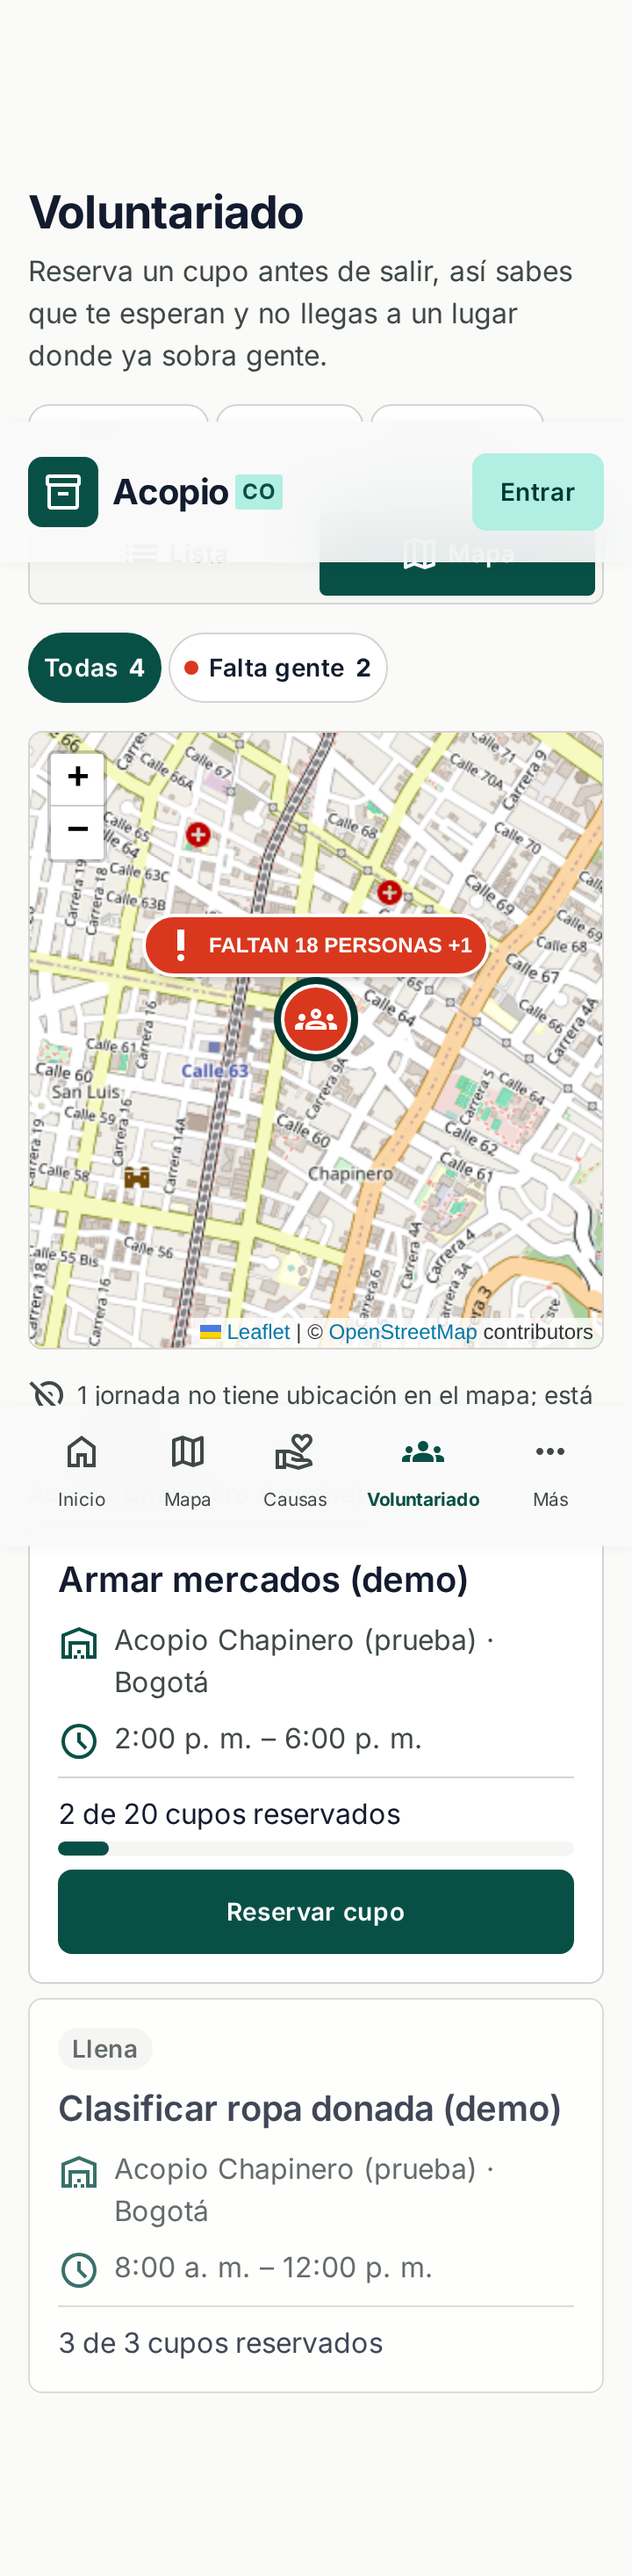
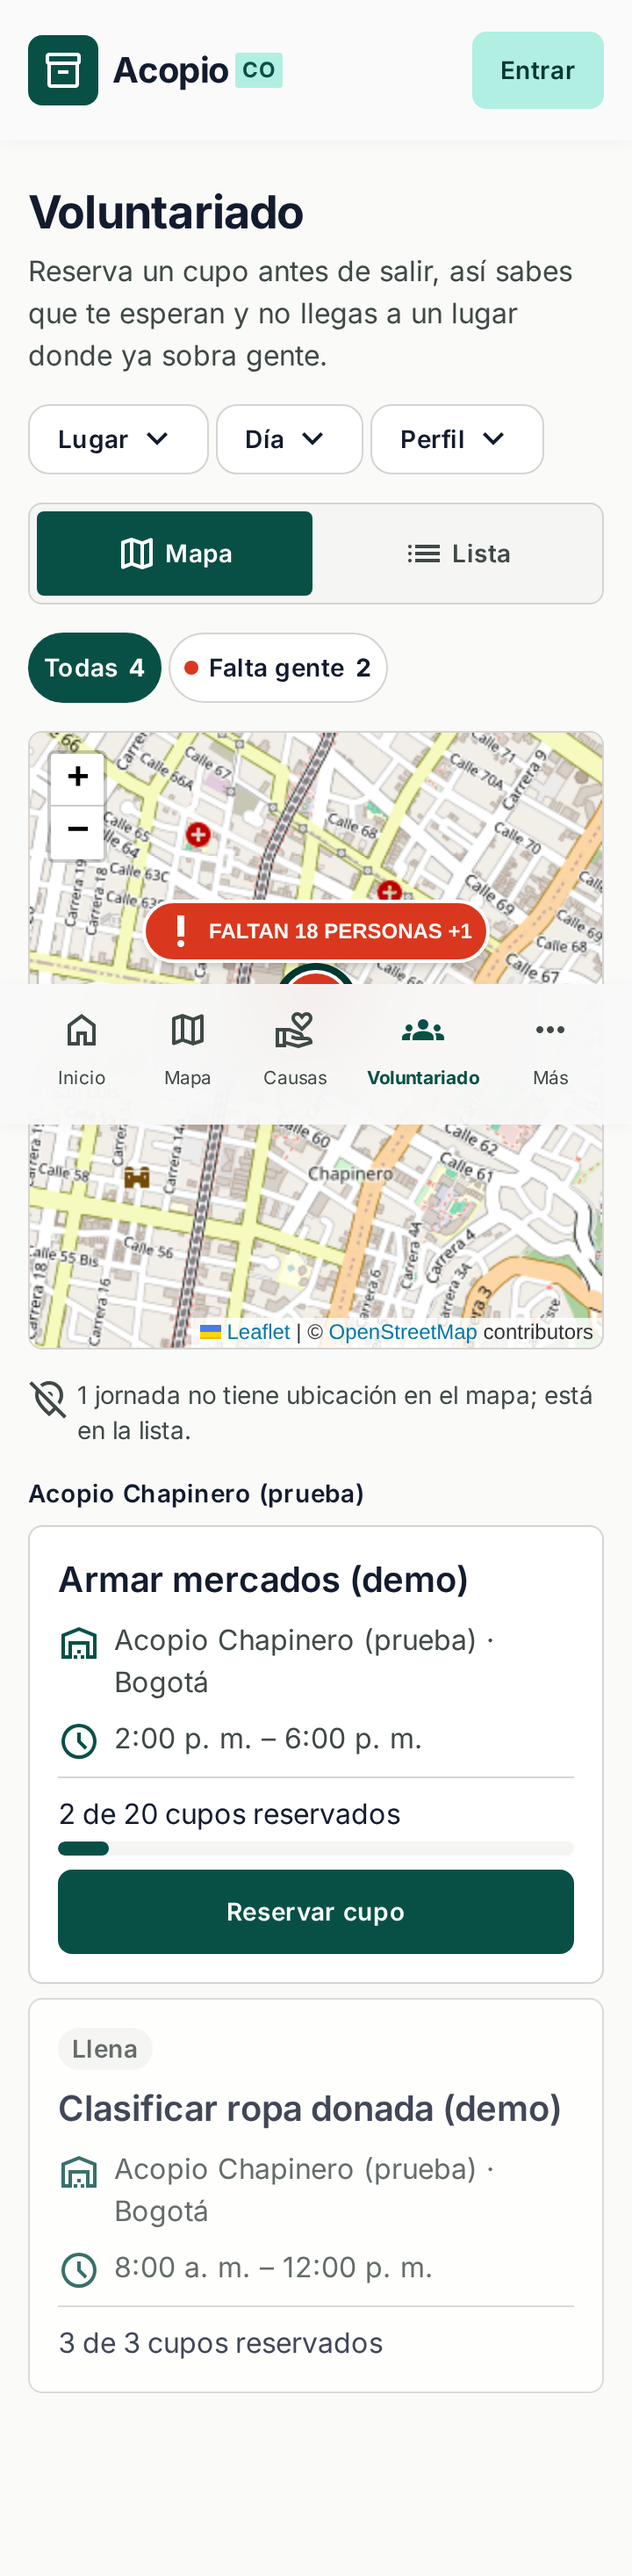
Voluntariado: abre en el mapa como P5, con la lista en ?vista=lista
El ancho de cada punto sale de su etiqueta (anchoPunto). El recorrido, la nota de P7 y
la especificación del mapa de necesidades se alinean, con la decisión de Joseph.

Claude-Session: https://claude.ai/code/session_01YFcedtGcTXRBBGCybdUmT9

diff --git a/apps/web/src/portal/turnos/Jornadas.test.tsx b/apps/web/src/portal/turnos/Jornadas.test.tsx
@@ -51,7 +51,7 @@ const TRES = [
 
 it('agrupa las jornadas por día y marca las llenas y las cerradas', async () => {
   responderSegun({ 'GET /api/turnos/jornadas': TRES });
-  const { container } = render(envolver(<Jornadas />, '/voluntariado'));
+  const { container } = render(envolver(<Jornadas />, '/voluntariado?vista=lista'));
   const dia21 = await screen.findByRole('region', { name: 'Miércoles 21 de octubre' });
   const dia22 = screen.getByRole('region', { name: 'Jueves 22 de octubre' });
   expect(within(dia21).getAllByRole('link')).toHaveLength(2);
@@ -77,13 +77,13 @@ it('muestra hace cuánto se ajustaron los cupos a mano', async () => {
   responderSegun({
     'GET /api/turnos/jornadas': [jornadaDe({ ajuste: 2, ajusteActualizadoEn: haceDosHoras })],
   });
-  render(envolver(<Jornadas />, '/voluntariado'));
+  render(envolver(<Jornadas />, '/voluntariado?vista=lista'));
   expect(await screen.findByText('Ajustado hace 2 h')).toBeInTheDocument();
 });
 
 it('el filtro de perfil pide las jornadas de ese perfil', async () => {
   responderSegun({ 'GET /api/turnos/jornadas': TRES });
-  render(envolver(<Jornadas />, '/voluntariado'));
+  render(envolver(<Jornadas />, '/voluntariado?vista=lista'));
   await screen.findByText('Armar mercados');
   await userEvent.click(screen.getByRole('button', { name: /Perfil/ }));
   await userEvent.click(
@@ -103,7 +103,7 @@ it('muestra la hora de Bogotá aunque el navegador esté en otra zona', async ()
   process.env.TZ = 'America/New_York';
   try {
     responderSegun({ 'GET /api/turnos/jornadas': [jornadaDe()] });
-    render(envolver(<Jornadas />, '/voluntariado'));
+    render(envolver(<Jornadas />, '/voluntariado?vista=lista'));
     expect(await screen.findByText('8:00 a. m. – 12:00 p. m.')).toBeInTheDocument();
   } finally {
     process.env.TZ = zona;
@@ -112,7 +112,7 @@ it('muestra la hora de Bogotá aunque el navegador esté en otra zona', async ()
 
 it('sin jornadas lo dice', async () => {
   responderSegun({ 'GET /api/turnos/jornadas': [] });
-  render(envolver(<Jornadas />, '/voluntariado'));
+  render(envolver(<Jornadas />, '/voluntariado?vista=lista'));
   expect(await screen.findByText('Por ahora no hay jornadas abiertas')).toBeInTheDocument();
 });
 
@@ -122,7 +122,7 @@ it('abierta con ?acopio= filtra por ese acopio', async () => {
   responderSegun({
     'GET /api/turnos/jornadas': [jornadaDe({ lugar: { ...jornadaDe().lugar, id: UUID } })],
   });
-  render(envolver(<Jornadas />, `/voluntariado?acopio=${UUID}`));
+  render(envolver(<Jornadas />, `/voluntariado?vista=lista&acopio=${UUID}`));
   await waitFor(() => expect(peticiones()).toContain(`GET /api/turnos/jornadas?acopio=${UUID}`));
   expect(await screen.findByRole('button', { name: /Acopio Chapinero/ })).toHaveAttribute(
     'aria-pressed',
@@ -141,13 +141,13 @@ it('con ajuste manual, los cupos dicen cuántos llegaron sin reserva', async () 
       }),
     ],
   });
-  render(envolver(<Jornadas />, '/voluntariado'));
+  render(envolver(<Jornadas />, '/voluntariado?vista=lista'));
   expect(await screen.findByText('3 de 10 cupos reservados · 2 sin reserva')).toBeInTheDocument();
 });
 
 it('ignora un día o un acopio mal escritos en la URL', async () => {
   responderSegun({ 'GET /api/turnos/jornadas': [jornadaDe()] });
-  render(envolver(<Jornadas />, '/voluntariado?dia=mañana&acopio=no-es-uuid'));
+  render(envolver(<Jornadas />, '/voluntariado?vista=lista&dia=mañana&acopio=no-es-uuid'));
   expect(await screen.findByText('Armar mercados')).toBeInTheDocument();
   expect(peticiones().filter((p) => p.startsWith('GET /api/turnos/jornadas'))).toEqual([
     'GET /api/turnos/jornadas',
@@ -160,7 +160,7 @@ it('ignora un día que no existe y un UUID sin versión, como la API (P-071)', a
   render(
     envolver(
       <Jornadas />,
-      '/voluntariado?dia=2026-02-30&acopio=11111111-1111-1111-1111-111111111111',
+      '/voluntariado?vista=lista&dia=2026-02-30&acopio=11111111-1111-1111-1111-111111111111',
     ),
   );
   expect(await screen.findByText('Armar mercados')).toBeInTheDocument();
@@ -174,7 +174,7 @@ it('un acopio en mayúsculas en la URL coincide con su opción (P-071)', async (
   responderSegun({
     'GET /api/turnos/jornadas': [jornadaDe({ lugar: { ...jornadaDe().lugar, id } })],
   });
-  render(envolver(<Jornadas />, `/voluntariado?acopio=${id.toUpperCase()}`));
+  render(envolver(<Jornadas />, `/voluntariado?vista=lista&acopio=${id.toUpperCase()}`));
   await waitFor(() => expect(peticiones()).toContain(`GET /api/turnos/jornadas?acopio=${id}`));
   expect(await screen.findByRole('button', { name: /Acopio Chapinero/ })).toHaveAttribute(
     'aria-pressed',
@@ -187,7 +187,7 @@ it('el filtro de lugar dice el nombre del acopio aunque no tenga jornadas', asyn
     'GET /api/turnos/jornadas': [],
     [`GET /api/acopios/${UUID}`]: acopioDePrueba({ nombre: 'Acopio Suba' }),
   });
-  render(envolver(<Jornadas />, `/voluntariado?acopio=${UUID}`));
+  render(envolver(<Jornadas />, `/voluntariado?vista=lista&acopio=${UUID}`));
   expect(await screen.findByRole('button', { name: /Acopio Suba/ })).toHaveAttribute(
     'aria-pressed',
     'true',
@@ -196,7 +196,7 @@ it('el filtro de lugar dice el nombre del acopio aunque no tenga jornadas', asyn
 
 it('los filtros avisan que abren un diálogo', async () => {
   responderSegun({ 'GET /api/turnos/jornadas': [jornadaDe()] });
-  render(envolver(<Jornadas />, '/voluntariado'));
+  render(envolver(<Jornadas />, '/voluntariado?vista=lista'));
   await screen.findByText('Armar mercados');
   for (const nombre of [/Lugar/, /Día/, /Perfil/]) {
     expect(screen.getByRole('button', { name: nombre })).toHaveAttribute('aria-haspopup', 'dialog');
@@ -209,7 +209,7 @@ it('con el ajuste en 0 no dice «Ajustado»', async () => {
       jornadaDe({ ajuste: 0, ajusteActualizadoEn: new Date().toISOString() }),
     ],
   });
-  render(envolver(<Jornadas />, '/voluntariado'));
+  render(envolver(<Jornadas />, '/voluntariado?vista=lista'));
   await screen.findByText('Armar mercados');
   expect(screen.queryByText(/Ajustado/)).not.toBeInTheDocument();
 });
@@ -227,7 +227,15 @@ const CON_CUPOS = jornadaDe({
   lugar: { ...jornadaDe().lugar, id: 'a2', nombre: 'Acopio Suba', lat: 4.74, lng: -74.08 },
 });
 
-it('la vista de mapa queda en la URL y los chips filtran', async () => {
+it('sin parámetro abre en «Mapa», como el mapa de acopios', async () => {
+  responderSegun({ 'GET /api/turnos/jornadas': TRES });
+  render(envolver(<Jornadas />, '/voluntariado'));
+  expect(await screen.findByText('mapa de jornadas')).toBeInTheDocument();
+  expect(screen.getByRole('radio', { name: 'Mapa' })).toBeChecked();
+  expect(screen.getByRole('radio', { name: 'Lista' })).not.toBeChecked();
+});
+
+it('la lista queda en la URL y los chips filtran en el mapa', async () => {
   responderSegun({ 'GET /api/turnos/jornadas': [...TRES, CON_CUPOS] });
   render(
     envolver(
@@ -235,7 +243,7 @@ it('la vista de mapa queda en la URL y los chips filtran', async () => {
         <Jornadas />
         <Ubicacion />
       </>,
-      '/voluntariado',
+      '/voluntariado?vista=lista',
     ),
   );
   await screen.findByText('Armar mercados');
@@ -244,7 +252,7 @@ it('la vista de mapa queda en la URL y los chips filtran', async () => {
   expect(screen.getByRole('button', { name: 'Con cupos 1' })).toBeInTheDocument();
 
   await userEvent.click(screen.getByRole('radio', { name: 'Mapa' }));
-  expect(screen.getByTestId('busqueda')).toHaveTextContent('vista=mapa');
+  expect(screen.getByTestId('busqueda')).not.toHaveTextContent('vista');
   // En el mapa entran la que falta gente, la de cupos y la llena; la fuera de plazo no
   expect(await screen.findByText('mapa de jornadas')).toBeInTheDocument();
   expect(screen.getByRole('button', { name: 'lugar a1 con 2' })).toBeInTheDocument();
@@ -262,7 +270,7 @@ it('la vista de mapa queda en la URL y los chips filtran', async () => {
   expect(screen.queryByRole('link', { name: /Clasificar ropa donada/ })).not.toBeInTheDocument();
 
   await userEvent.click(screen.getByRole('radio', { name: 'Lista' }));
-  expect(screen.getByTestId('busqueda')).not.toHaveTextContent('vista=mapa');
+  expect(screen.getByTestId('busqueda')).toHaveTextContent('vista=lista');
   expect(screen.getAllByRole('link')).toHaveLength(1);
   expect(screen.getByRole('link', { name: /Armar mercados/ })).toBeInTheDocument();
 });
@@ -275,7 +283,7 @@ it('una jornada sin coordenadas lo avisa bajo el mapa', async () => {
       jornadaDe({ id: 'j5', lugar: { ...jornadaDe().lugar, id: 'e1', lat: null, lng: null } }),
     ],
   });
-  render(envolver(<Jornadas />, '/voluntariado?vista=mapa'));
+  render(envolver(<Jornadas />, '/voluntariado'));
   expect(
     await screen.findByText('1 jornada no tiene ubicación en el mapa; está en la lista.'),
   ).toBeInTheDocument();

diff --git a/apps/web/src/portal/turnos/MapaJornadas.tsx b/apps/web/src/portal/turnos/MapaJornadas.tsx
@@ -3,10 +3,8 @@ import 'leaflet/dist/leaflet.css';
 import { useEffect } from 'react';
 import { MapContainer, TileLayer, useMap } from 'react-leaflet';
 import { ATRIBUCION, CENTRO_INICIAL, MOSAICOS } from '../../componentes/mapa/MapaLeaflet';
-import { altoPunto, htmlPunto } from '../mapa/marcador';
+import { altoPunto, anchoPunto, htmlPunto } from '../mapa/marcador';
 import { ESTILO_CUPOS, estadoCupos, textoPunto, type GrupoLugar } from './cupos';
-
-const ANCHO = 220;
 
 function Puntos({
   grupos,
@@ -25,6 +23,7 @@ function Puntos({
       const estilo = ESTILO_CUPOS[estado];
       const sel = g.lugar.id === elegido;
       const alto = altoPunto(sel, true);
+      const ancho = anchoPunto(sel, texto);
       const mas = g.jornadas.length - 1;
       const titulo = `${g.lugar.nombre}. ${estadoCupos(g.jornadas[0]!)!.texto.toLocaleLowerCase('es-CO')}${
         mas > 0 ? ` y ${mas} ${mas === 1 ? 'jornada más' : 'jornadas más'}` : ''
@@ -38,8 +37,8 @@ function Puntos({
             etiqueta: { clases: estilo.clases, icono: estilo.icono, texto },
             elegido: sel,
           }),
-          iconSize: [ANCHO, alto],
-          iconAnchor: [ANCHO / 2, alto],
+          iconSize: [ancho, alto],
+          iconAnchor: [ancho / 2, alto],
         }),
         title: titulo,
         alt: titulo,

diff --git a/apps/web/src/portal/turnos/Jornadas.tsx b/apps/web/src/portal/turnos/Jornadas.tsx
@@ -62,7 +62,8 @@ export function Jornadas() {
   // Las opciones de lugar y día salen de todas las jornadas, sin filtrar
   const todas = useJornadas();
   const [abierta, abrir] = useState<Clave | null>(null);
-  const vista = parametros.get('vista') === 'mapa' ? 'mapa' : 'lista';
+  // Abre en el mapa, como P5; la lista va en `vista=lista`
+  const vista = parametros.get('vista') === 'lista' ? 'lista' : 'mapa';
   const chip = leerChip(parametros.get('estado'));
   const [elegido, fijarElegido] = useState<string | null>(null);
   const elegir = useCallback((id: string) => fijarElegido(id), []);
@@ -189,10 +190,10 @@ export function Jornadas() {
       <Segmentado
         etiqueta="Ver como"
         valor={vista}
-        alCambiar={(v) => cambiar('vista', v === 'mapa' ? 'mapa' : null)}
+        alCambiar={(v) => cambiar('vista', v === 'lista' ? 'lista' : null)}
         opciones={[
-          { valor: 'lista', texto: 'Lista', icono: 'list' },
           { valor: 'mapa', texto: 'Mapa', icono: 'map' },
+          { valor: 'lista', texto: 'Lista', icono: 'list' },
         ]}
       />
 

diff --git a/docs/superpowers/specs/2026-10-20-mapa-de-necesidades-design.md b/docs/superpowers/specs/2026-10-20-mapa-de-necesidades-design.md
@@ -162,8 +162,9 @@ que el cálculo sale de ahí con los DAO que ya existen.
 
 ## Voluntariado en mapa
 
-P7 (`/voluntariado`) gana las pestañas «Lista» y «Mapa», como P5. La lista sigue siendo la
-vista por defecto. Los filtros que ya tiene (lugar, día, perfil) aplican a las dos.
+P7 (`/voluntariado`) gana las pestañas «Mapa» y «Lista», como P5. Abre en el mapa, igual que
+P5, y la lista queda en `?vista=lista`. Los filtros que ya tiene (lugar, día, perfil) aplican a
+las dos.
 
 - Un punto por lugar (`lugar.id`) con coordenadas. Las jornadas cuyo lugar no tiene `lat` y
   `lng` solo salen en la lista, y un aviso bajo el mapa dice cuántas son.
@@ -194,6 +195,7 @@ ajuste y libres.
 - Los colores del punto como en la maqueta (2026-10-20). Leí «colores como en la maqueta» como
   el punto completo de la maqueta, un círculo sin nombre; si quería la píldora con nombre en el
   color del estado, se cambia en el plan.
+- Que voluntariado abra en el mapa, como el mapa de acopios (2026-10-20).
 
 ## Lo que decidí yo al cerrar el diseño
 

diff --git a/docs/03-diseno/stitch/P07-voluntariado/README.md b/docs/03-diseno/stitch/P07-voluntariado/README.md
@@ -39,8 +39,8 @@ Especificación: [mapa de necesidades](../../../superpowers/specs/2026-10-20-map
 sección «Voluntariado en mapa». Sale de la pantalla de Stitch «Voluntariado - Mapa de Jornadas
 y Reserva de Cupos».
 
-- P7 tiene las pestañas «Lista» y «Mapa», como P5. La lista sigue siendo la vista por defecto
-  y los filtros de lugar, día y perfil aplican a las dos.
+- P7 tiene las pestañas «Mapa» y «Lista», como P5, y abre en el mapa. La lista queda en
+  `?vista=lista`. Los filtros de lugar, día y perfil aplican a las dos.
 - Cada lugar con coordenadas es un círculo con `groups` y, encima, la etiqueta de su jornada
   más urgente: «FALTAN N PERSONAS» si está ocupado menos de la mitad del cupo, «QUEDAN N
   CUPOS» si no, o «LLENA». Con varias jornadas suma «+N». Al tocarlo salen debajo sus
